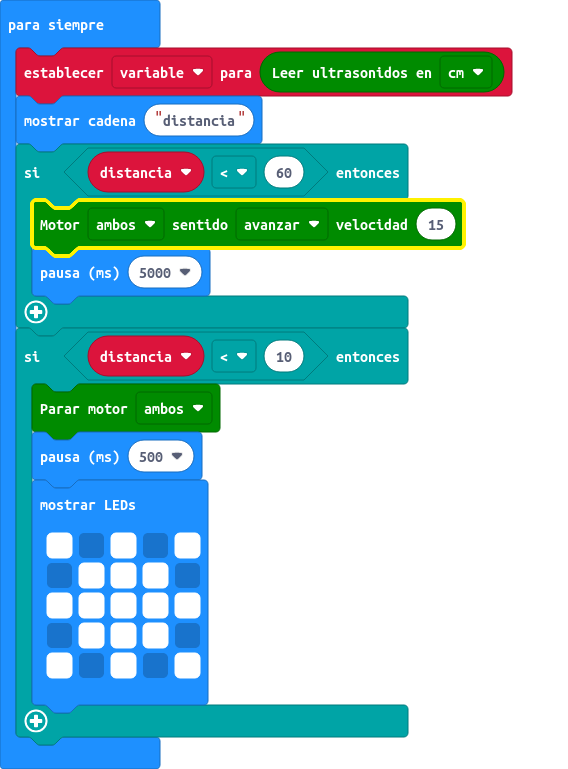
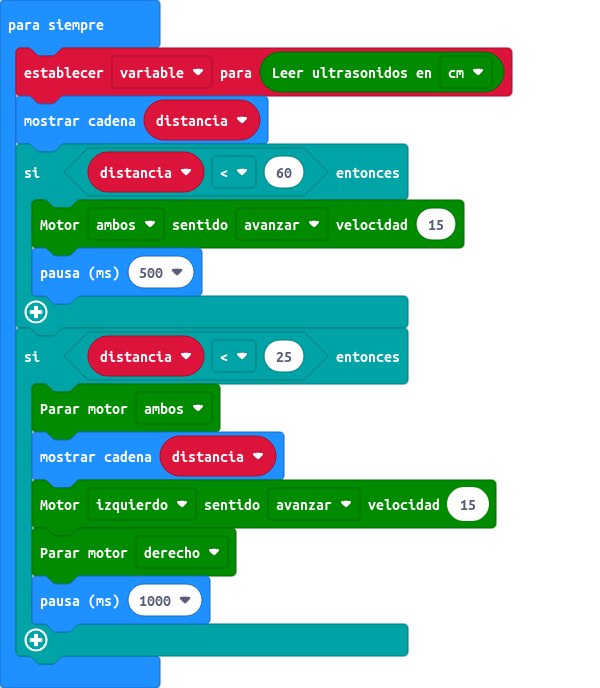
Actualizar pxt.json, main.blocks, main.ts

diff --git a/main.ts b/main.ts
@@ -2,20 +2,16 @@ let variable = 0
 basic.forever(function () {
     let distancia = 0
     variable = maqueen.Ultrasonic(PingUnit.Centimeters)
-    basic.showString("distancia")
+    basic.showString("" + (distancia))
     if (distancia < 60) {
         maqueen.motorRun(maqueen.Motors.All, maqueen.Dir.CW, 15)
-        basic.pause(5000)
-    }
-    if (distancia < 10) {
-        maqueen.motorStop(maqueen.Motors.All)
         basic.pause(500)
-        basic.showLeds(`
-            # . # . #
-            . # # # .
-            # # # # #
-            . # # # .
-            # . # . #
-            `)
+    }
+    if (distancia < 25) {
+        maqueen.motorStop(maqueen.Motors.All)
+        basic.showString("" + (distancia))
+        maqueen.motorRun(maqueen.Motors.M1, maqueen.Dir.CW, 15)
+        maqueen.motorStop(maqueen.Motors.M2)
+        basic.pause(1000)
     }
 })
